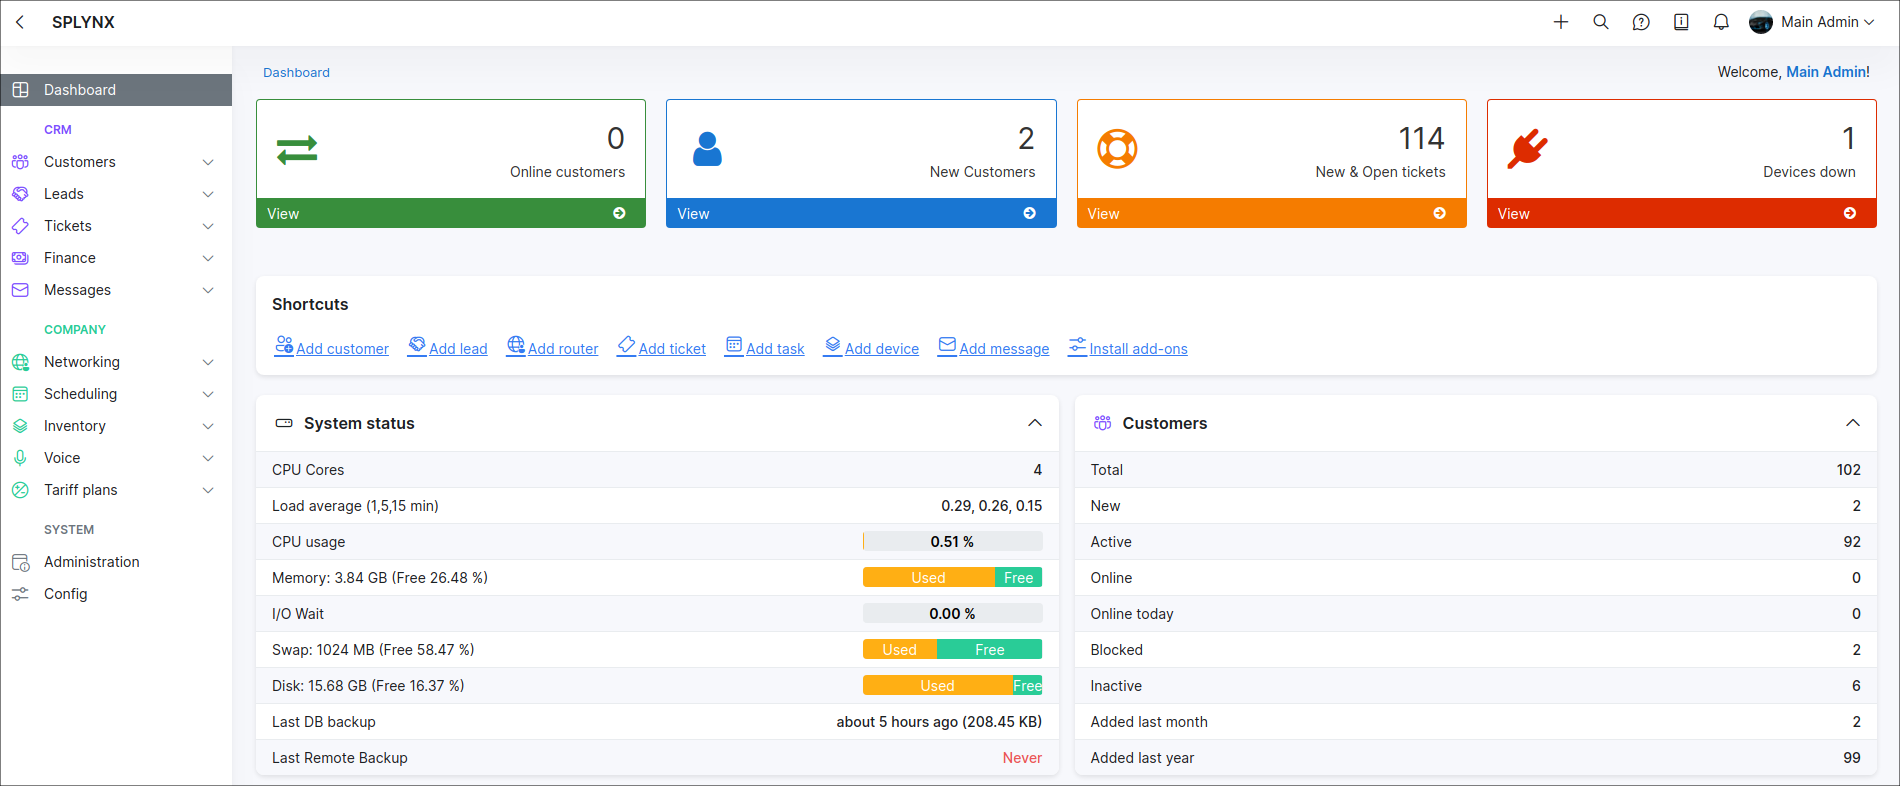
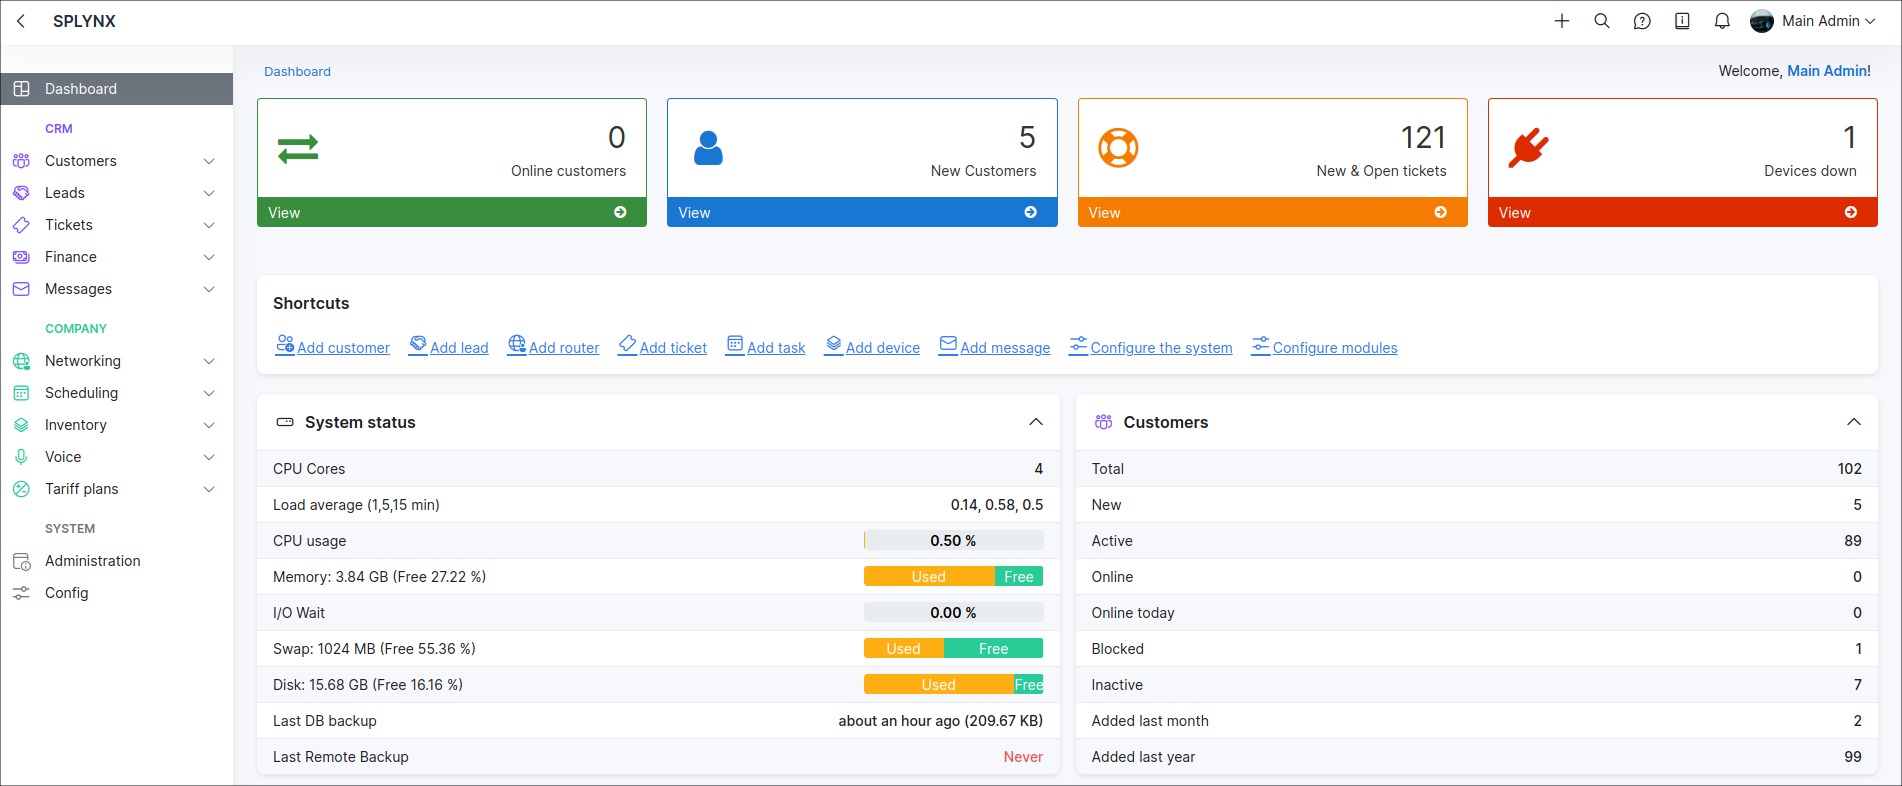
added new upd from SPL-8210

diff --git a/files/en/dashboard/dashboard.md b/files/en/dashboard/dashboard.md
@@ -19,7 +19,7 @@ In order to open a more detailed list of the data presented in the blocks, use t
 
 ![Screenshot](shortcuts.png)
 
-On this panel can be configured and pinned the quick actions available in Splynx. The list of actions depends on the role of the account. Note, when we install at least one add-on on the system, the `Install add-ons` item will change to `Configure modules` one.
+On this panel are provided the quick actions available in Splynx. The list of actions depends on the role of the account and its permissions. Note, when we install at least one add-on on the system, the `Install add-ons` item will be changed to `Configure modules` one. `Configure modules` action opens `Config → Integrations → Modules list` (the configuration page of all add-ons installed on system)
 
 **Example:**
 
